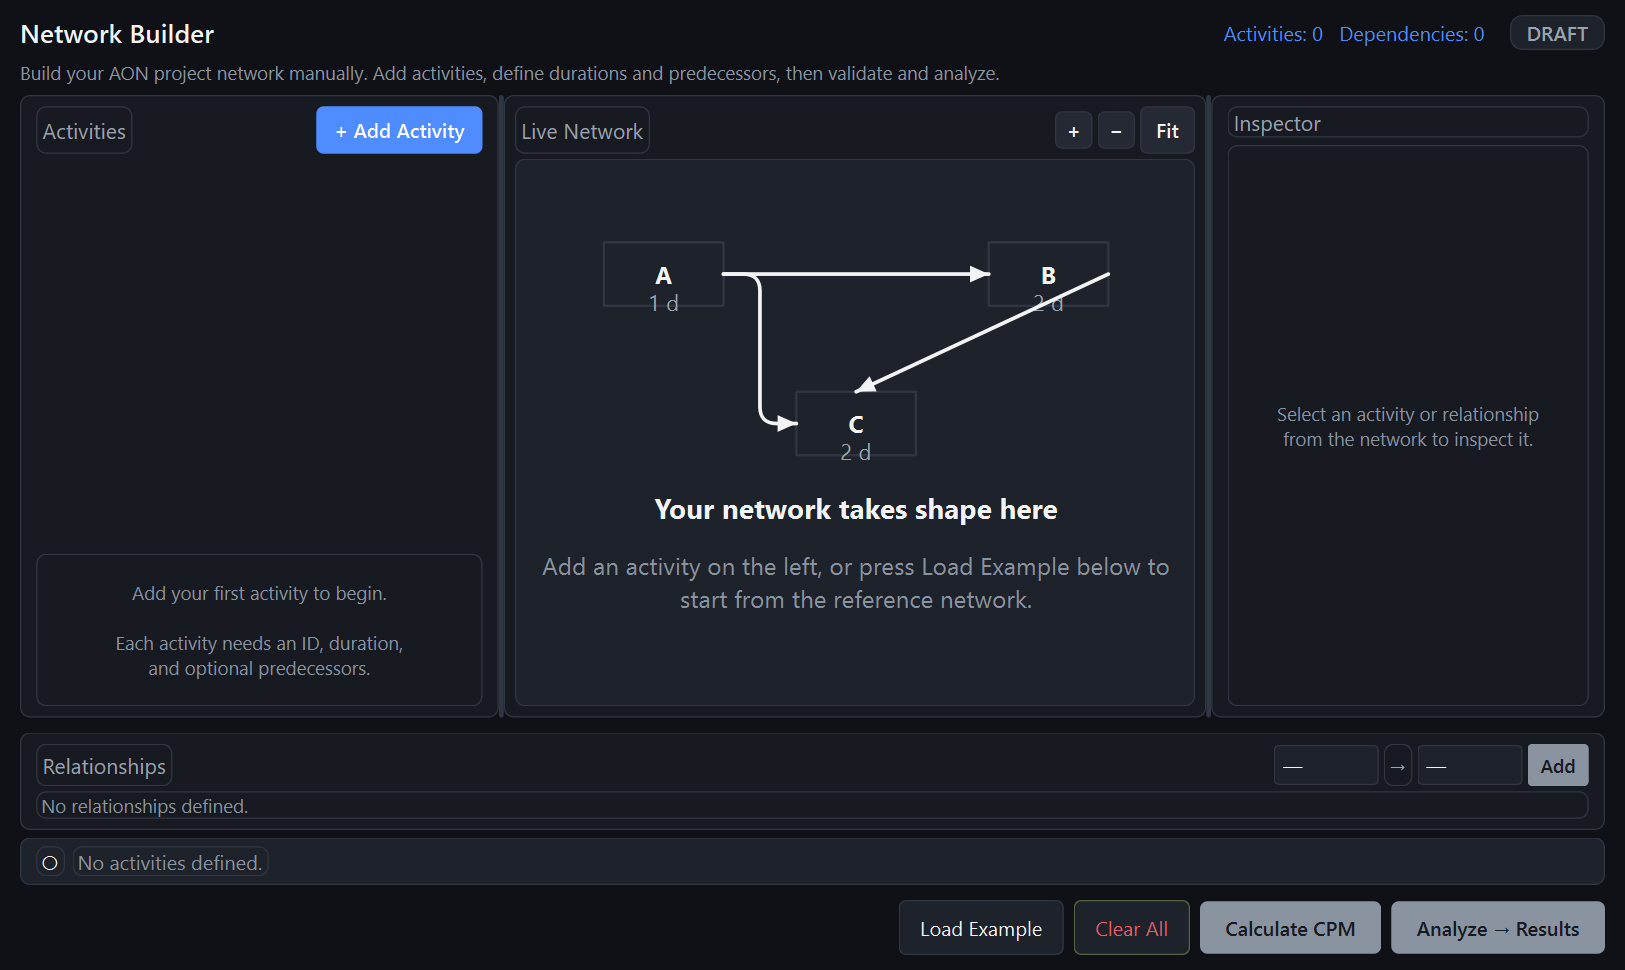
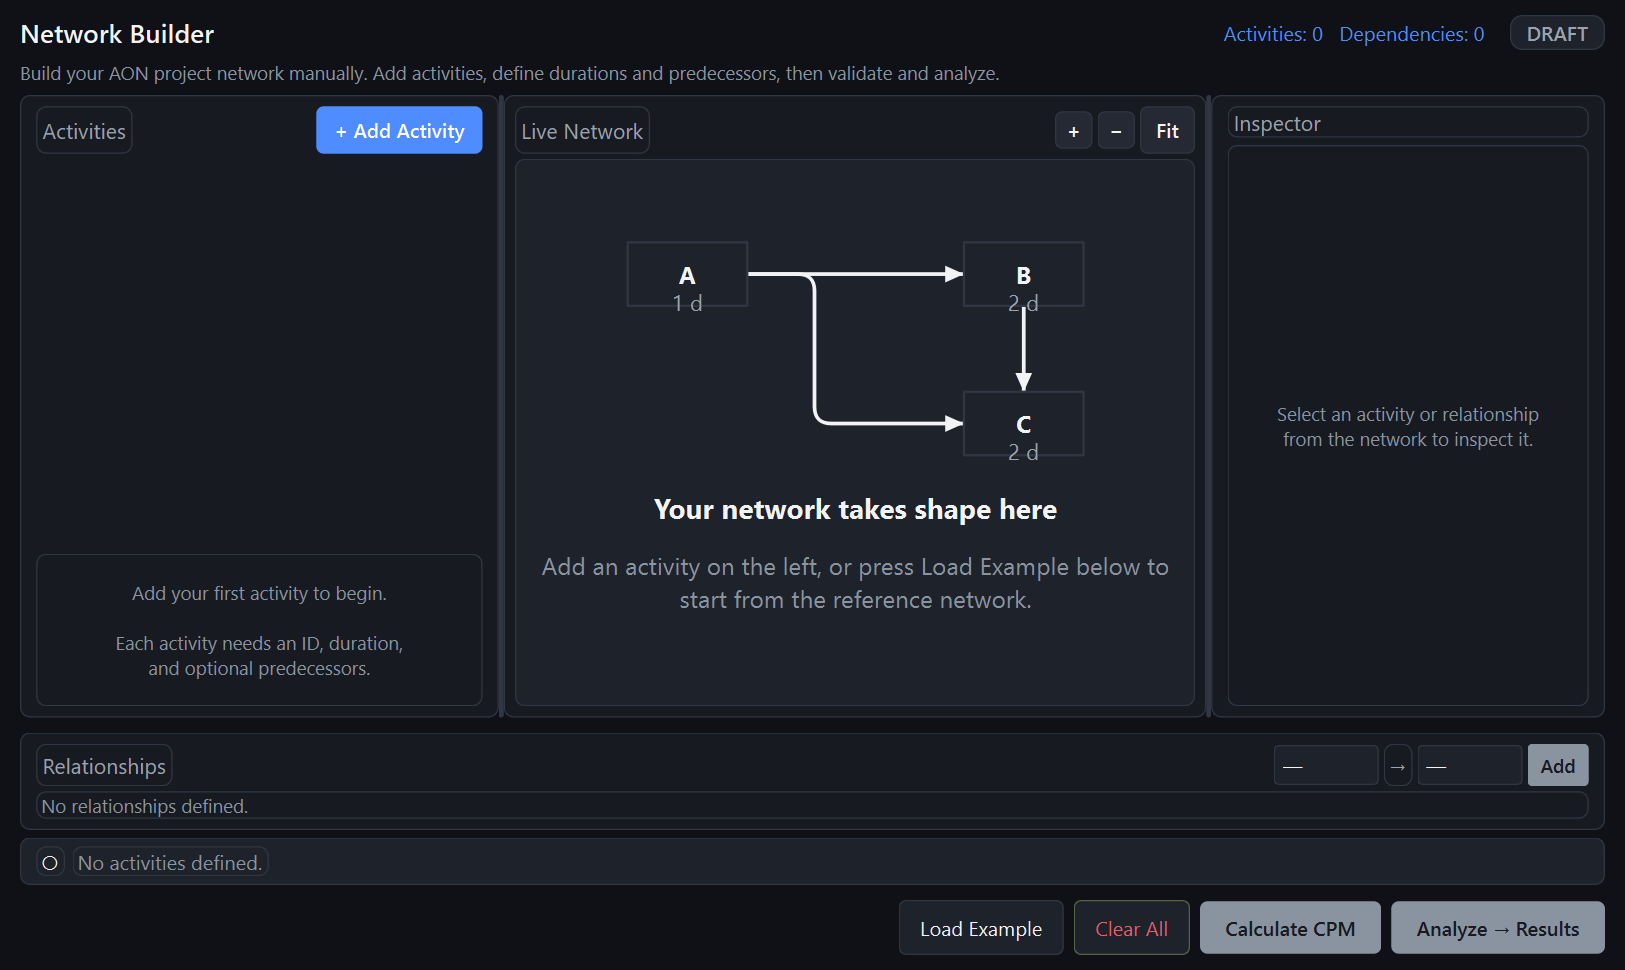
batch B-6: editable auto ids, delete-anywhere, precise edge clicks
- empty-canvas glyph: C moved under B so B->C renders as a clean
  vertical arrow into C's top edge (the old slanted return read as
  a mis-aimed arrow)
- edge clicks now hug the drawn line: _GraphEdgeItem.shape() returns
  a 12px stroke of its routed path (nodes layered above) instead of
  a huge transparent rect - the last-added edge's rect used to eat
  clicks aimed at older edges, so only the newest relationship was
  deletable
- activity inspector gains a red 'Delete activity' button for any
  node, not just edges; model cascades its relationships on delete
- activity IDs still auto-sequence A, B, C... but are now editable
  inline: renames are validated by the model (unique, non-empty),
  invalid input reverts with a warning, valid ones rebind the row,
  selection and later edits to the new id

diff --git a/pert_analyzer/gui/pages/network_builder_page.py b/pert_analyzer/gui/pages/network_builder_page.py
@@ -17,6 +17,7 @@ from PySide6.QtGui import (
     QFont,
     QPainter,
     QPainterPath,
+    QPainterPathStroker,
     QPen,
     QPolygonF,
     QTextOption,
@@ -581,12 +582,22 @@ class NetworkBuilderPage(QWidget):
         row_layout.setContentsMargins(8, 4, 8, 4)
         row_layout.setSpacing(6)
 
-        # Activity ID (read-only label)
-        id_label = QLabel(activity_id)
-        id_label.setFont(QFont(*STATUS_FONT))
-        id_label.setStyleSheet(f"color: {ACCENT}; font-weight: 600;")
-        id_label.setFixedWidth(30)
-        row_layout.addWidget(id_label)
+        # Activity ID - auto-sequenced by the model on add, but editable:
+        # renaming goes through the model's validation (unique, non-empty)
+        # and the row rebinds its handlers to the new id at call time.
+        id_input = QLineEdit(activity_id)
+        id_input.setFixedWidth(88)
+        id_input.setFont(QFont(*STATUS_FONT))
+        id_input.setToolTip("Activity ID - click to edit; must be unique.")
+        id_input.setStyleSheet(
+            f"QLineEdit {{ background: transparent; color: {ACCENT};"
+            f" font-weight: 600; border: none;"
+            f" border-bottom: 1px dashed transparent; }}"
+            f"QLineEdit:hover {{ border-bottom: 1px dashed {ACCENT}55; }}"
+            f"QLineEdit:focus {{ background: {SURFACE};"
+            f" border: 1px solid {ACCENT}; border-radius: 4px; }}"
+        )
+        row_layout.addWidget(id_input)
 
         # Duration
         dur_input = QLineEdit(str(int(entry.duration)) if entry.duration == int(entry.duration) else str(entry.duration))
@@ -620,24 +631,62 @@ class NetworkBuilderPage(QWidget):
             f" border: none; border-radius: 4px; }}"
             f"QPushButton:hover {{ background: {DANGER}33; color: {DANGER}; }}"
         )
-        del_btn.clicked.connect(lambda checked, aid=activity_id: self._on_delete_activity(aid))
+        del_btn.clicked.connect(
+            lambda checked=False, _row=row: self._on_delete_activity(_row._activity_id)
+        )
         row_layout.addWidget(del_btn)
 
         # Store input refs on the row widget for later access
         row._dur_input = dur_input
         row._pred_input = pred_input
+        row._id_input = id_input
         row._activity_id = activity_id
 
-        # Connect editing finished signals
+        # Connect editing finished signals - the id is resolved through the
+        # row at call time, so a rename carries the later edits with it
+        # instead of writing to the stale captured id.
+        id_input.editingFinished.connect(
+            lambda _row=row, inp=id_input: self._on_activity_id_changed(_row, inp)
+        )
         dur_input.editingFinished.connect(
-            lambda aid=activity_id, inp=dur_input: self._on_duration_changed(aid, inp)
+            lambda _row=row, inp=dur_input: self._on_duration_changed(_row._activity_id, inp)
         )
         pred_input.editingFinished.connect(
-            lambda aid=activity_id, inp=pred_input: self._on_predecessors_changed(aid, inp)
+            lambda _row=row, inp=pred_input: self._on_predecessors_changed(_row._activity_id, inp)
         )
 
         # Insert before the stretch
         self._activity_layout.insertWidget(self._activity_layout.count() - 1, row)
+
+    def _on_activity_id_changed(self, row: Any, inp: Any) -> None:
+        """Commit an edited activity ID, validated by the model.
+
+        The id is auto-sequenced when the row is created, but the user can
+        override it; empty or duplicate ids revert to the previous value
+        with a warning. On success the row (and the selection) rebind to
+        the new id, so subsequent duration/predecessor/delete edits keep
+        targeting this activity.
+        """
+        new_id = inp.text().strip()
+        old_id = getattr(row, "_activity_id", None)
+        if old_id is None:
+            inp.clear()
+            return
+        if new_id == old_id:
+            inp.setText(old_id)
+            return
+        err = self._model.rename_activity(old_id, new_id)
+        if err:
+            QMessageBox.warning(self, "Rename Activity", err)
+            inp.setText(old_id)
+            return
+        # rename_activity emits structural change but does not carry the
+        # selection over - keep the inspector on this (renamed) node.
+        if self._model.selected_activity == old_id:
+            self._model.select_activity(new_id)
+        row._activity_id = new_id
+        row.setObjectName(f"activity_row_{new_id}")
+        inp.setText(new_id)
 
     def _on_duration_changed(self, activity_id: str, inp: Any) -> None:
         try:
@@ -1000,6 +1049,26 @@ class NetworkBuilderPage(QWidget):
 
         self._inspector_content.setText("".join(lines))
         self._inspector_content.setTextFormat(Qt.TextFormat.RichText)
+        self._add_inspector_delete_activity(activity_id)
+
+    def _add_inspector_delete_activity(self, activity_id: str) -> None:
+        """Offer a direct way to remove the inspected activity (and its
+        arrows) from the node inspector - the edge path already had one."""
+        delete_btn = QPushButton("Delete activity")
+        delete_btn.setFont(QFont(*STATUS_FONT))
+        delete_btn.setCursor(Qt.CursorShape.PointingHandCursor)
+        delete_btn.setStyleSheet(
+            f"QPushButton {{ background: {DANGER}22; color: {DANGER};"
+            f" border: 1px solid {DANGER}66; border-radius: 6px;"
+            f" padding: 5px 10px; font-weight: 600; }}"
+            f"QPushButton:hover {{ background: {DANGER}44;"
+            f" border: 1px solid {DANGER}; }}"
+        )
+        delete_btn.clicked.connect(
+            lambda checked=False, a=activity_id: self._on_delete_activity(a)
+        )
+        self._inspector_action_layout.addWidget(delete_btn)
+        self._inspector_action_layout.addStretch()
 
     def _add_inspector_delete_relationship(self, src: str, tgt: str) -> None:
         """Offer a direct way to remove the relationship being inspected."""
@@ -1149,8 +1218,8 @@ class NetworkBuilderPage(QWidget):
         quiet until the first click."""
         positions = {
             "A": (150, 26, 64, 34),
-            "B": (356, 26, 64, 34),
-            "C": (253, 106, 64, 34),
+            "B": (330, 26, 64, 34),
+            "C": (330, 106, 64, 34),
         }
         durations = {"A": 1, "B": 2, "C": 2}
         for aid, (x, y, w, h) in positions.items():
@@ -1163,21 +1232,27 @@ class NetworkBuilderPage(QWidget):
                 duration=durations[aid], is_critical=False, is_selected=False
             )
             self._graph_scene.addItem(node)
-        for src, tgt in (("A", "B"), ("A", "C"), ("B", "C")):
+        for src, tgt in (("A", "B"), ("A", "C")):
             start, end = network_layout.edge_points(positions, src, tgt)
-            if (src, tgt) == ("B", "C"):
-                # Stagger this edge into C's top edge: sharing C's left
-                # anchor with the A->C elbow collided the two arrowheads
-                # in one point (decorative glyph only).
-                gx, gy, gw, _ = positions["C"]
-                end = (gx + gw / 2, gy)
             edge = _GraphEdgeItem(src, tgt, start, end)
             edge.setFlag(
                 QGraphicsRectItem.GraphicsItemFlag.ItemIsSelectable, False
             )
             self._graph_scene.addItem(edge)
+        # B->C: C sits directly under B, so this is a clean vertical arrow
+        # into C's top edge - the old slanted return into C's side read as
+        # a mis-aimed arrow.
+        bx, by, bw, bh = positions["B"]
+        cxx, cy = positions["C"][0] + positions["C"][2] / 2, positions["C"][1]
+        edge = _GraphEdgeItem(
+            "B", "C", (bx + bw / 2, by + bh), (cxx, cy)
+        )
+        edge.setFlag(
+            QGraphicsRectItem.GraphicsItemFlag.ItemIsSelectable, False
+        )
+        self._graph_scene.addItem(edge)
 
-        cx = 285  # glyph horizontal center (150..420)
+        cx = 272  # glyph horizontal center (150..394)
         title = QGraphicsTextItem("Your network takes shape here")
         title.setDefaultTextColor(QColor(TEXT))
         f = title.font()
@@ -1431,6 +1506,25 @@ class _GraphEdgeItem(QGraphicsRectItem):
         self.setPen(QPen(QColor(0, 0, 0, 0)))
         self.setBrush(QColor(0, 0, 0, 0))
         self.setFlag(QGraphicsRectItem.GraphicsItemFlag.ItemIsSelectable, True)
+        # Nodes win any overlap; edges sit under them in the scene stack.
+        self.setZValue(-1)
+        # Clickable area hugs the drawn line: the plain rect() used to be
+        # a huge transparent band - the last-added edge's rect ate clicks
+        # aimed at older edges, so only the newest relationship looked
+        # deletable.
+        stroker = QPainterPathStroker()
+        stroker.setWidth(12)
+        stroker.setCapStyle(Qt.PenCapStyle.RoundCap)
+        stroker.setJoinStyle(Qt.PenJoinStyle.RoundJoin)
+        self._hit_shape = stroker.createStroke(self._route()[0] or self._straight_base())
+
+    def _straight_base(self) -> QPainterPath:
+        base = QPainterPath(self._start)
+        base.lineTo(self._end)
+        return base
+
+    def shape(self) -> QPainterPath:  # noqa: N802
+        return self._hit_shape
 
     # QGraphicsItem is not a QObject, so expose a signal-like API.
     def connect(self, handler) -> None:
